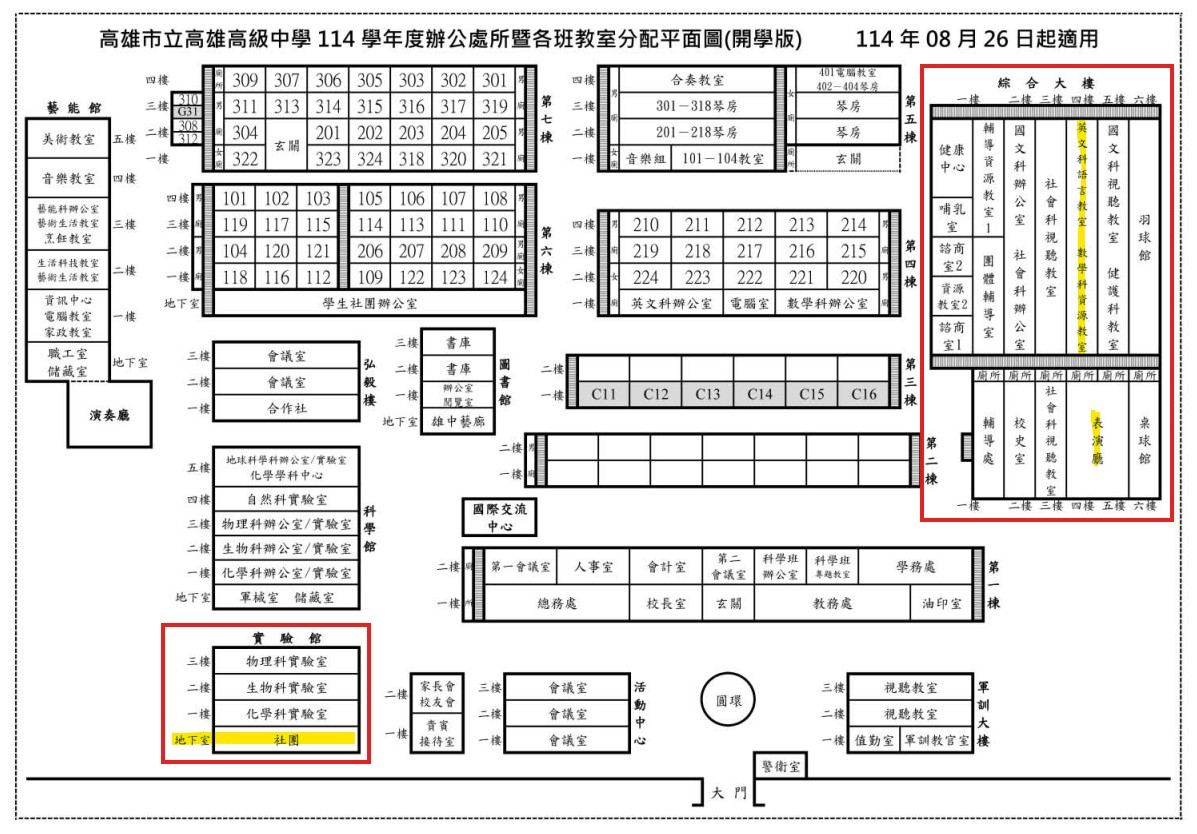
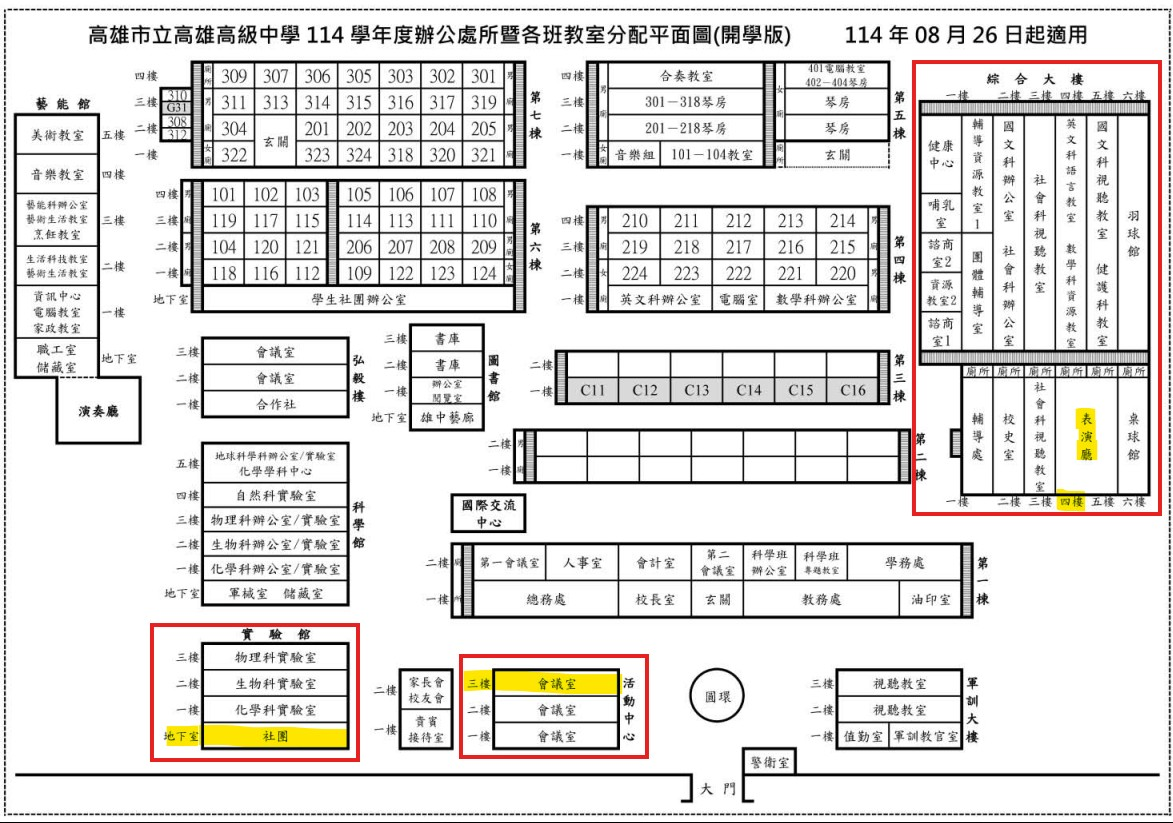
update

diff --git a/member/index.html b/member/index.html
@@ -159,7 +159,7 @@
         KSAWO & KSWB 19th Joint Concert<br/>
         <hr/>
         <h1 class="title">演出人員名單</h1>
-        <div class="update-time">更新時間：2026/7/10</div>
+        <div class="update-time">更新時間：2026/7/17</div>
         ※文字樣式說明：<span class="both-present">參加兩團</span>　<span class="style-A">校友團員</span>　<span class="style-none">校內團員</span>　<span class="style-I">協演人員</span>
     </div>
 
@@ -304,9 +304,9 @@
             <tr>
                 <td>上低音號</td>
                 <td>曹睿恆
-                    袁律涵</td>
-                <td>袁律涵
-                    曹睿恆</td>
+                    蔡語娟I</td>
+                <td>曹睿恆
+                    蔡語娟I</td>
             </tr>
             <tr>
                 <td>低音號</td>

diff --git a/location_info.md b/location_info.md
@@ -22,9 +22,17 @@
 #### 其他雄中排練場地
 
 1. 社辦：實驗館地下一樓
-2. 教室：綜合大樓四樓英文科教室
+2. 教室：活動中心（社辦旁邊那棟）三樓
 
 <img src="pic/loc/loc_ks.jpg" width="60%">     
+
+**活動中心三樓**
+
+- 前後有冷氣各一，上完課要關
+- 北側牆（靠學校這邊的牆壁）上面是燈的開關
+
+<img src="pic/loc/loc_ka2.jpg" width="60%">     
+<img src="pic/loc/loc_ka1.jpg" width="60%">     
 
 
 

diff --git a/README.md b/README.md
@@ -21,7 +21,8 @@
 
 #### 🎶 分部課時間
 ![](pic/timetable2.jpg)
-       
+- 分部教室：[ℹ️ 活動中心三樓](location_info.md/#其他雄中排練場地)                                 
+
 #### 🕒 團練時間    
 - 下午：14:00\~17:00、晚上：18:30\~21:30。
     - 如有不同時間會額外標示。
@@ -33,6 +34,7 @@
   - ℹ️ [如何前往衛武營排練場地](location_info.md/#衛武營排練場地)
 - 7/28 衛武營 B313 樂團排練室
 - 7/29 衛武營音樂廳後台
+
          
 ### 演出人員分團與分部長名單
 